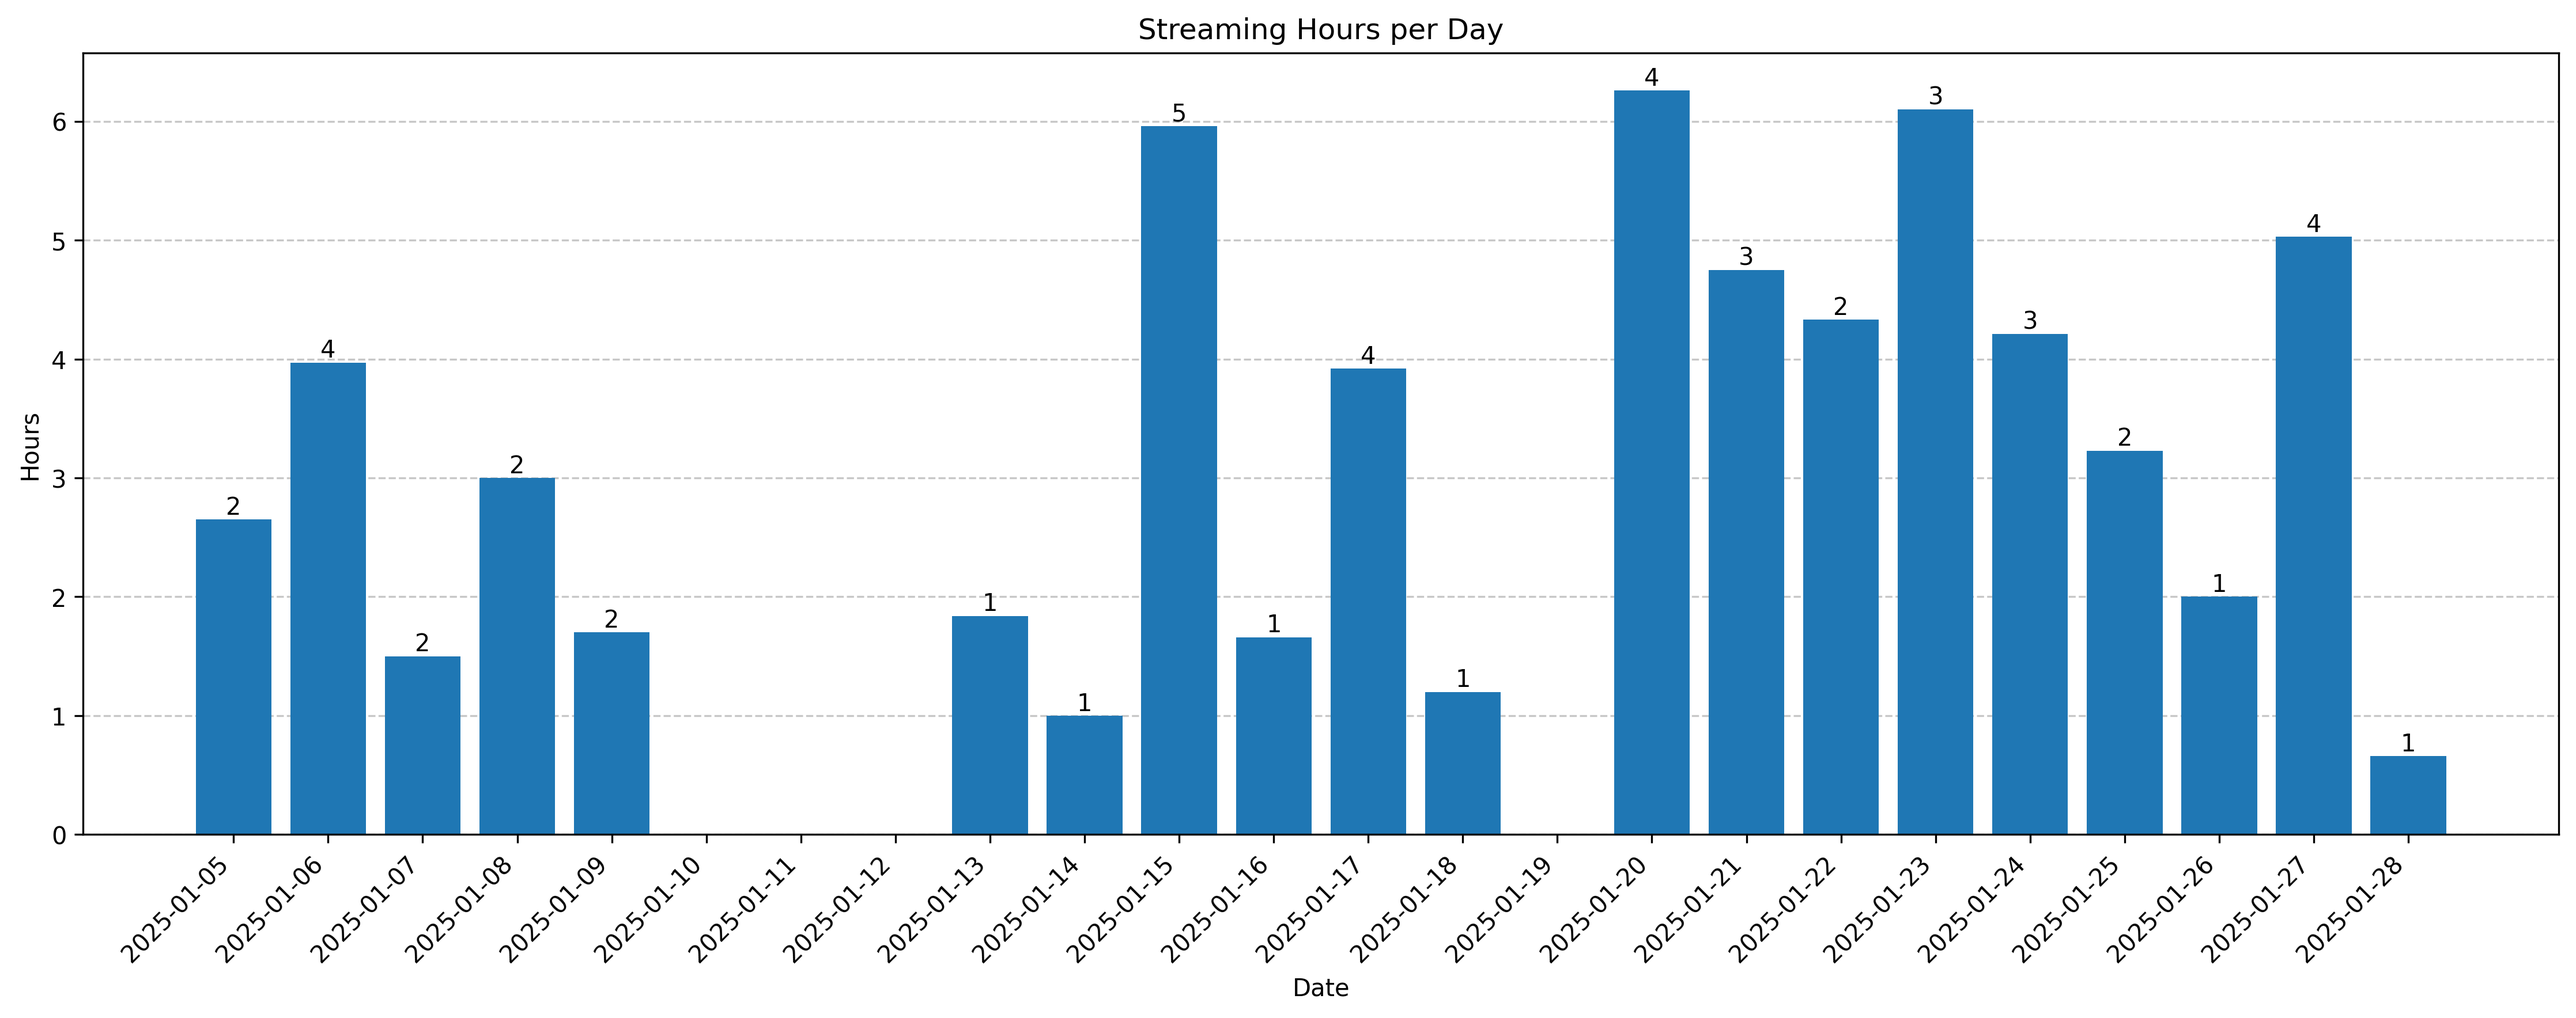
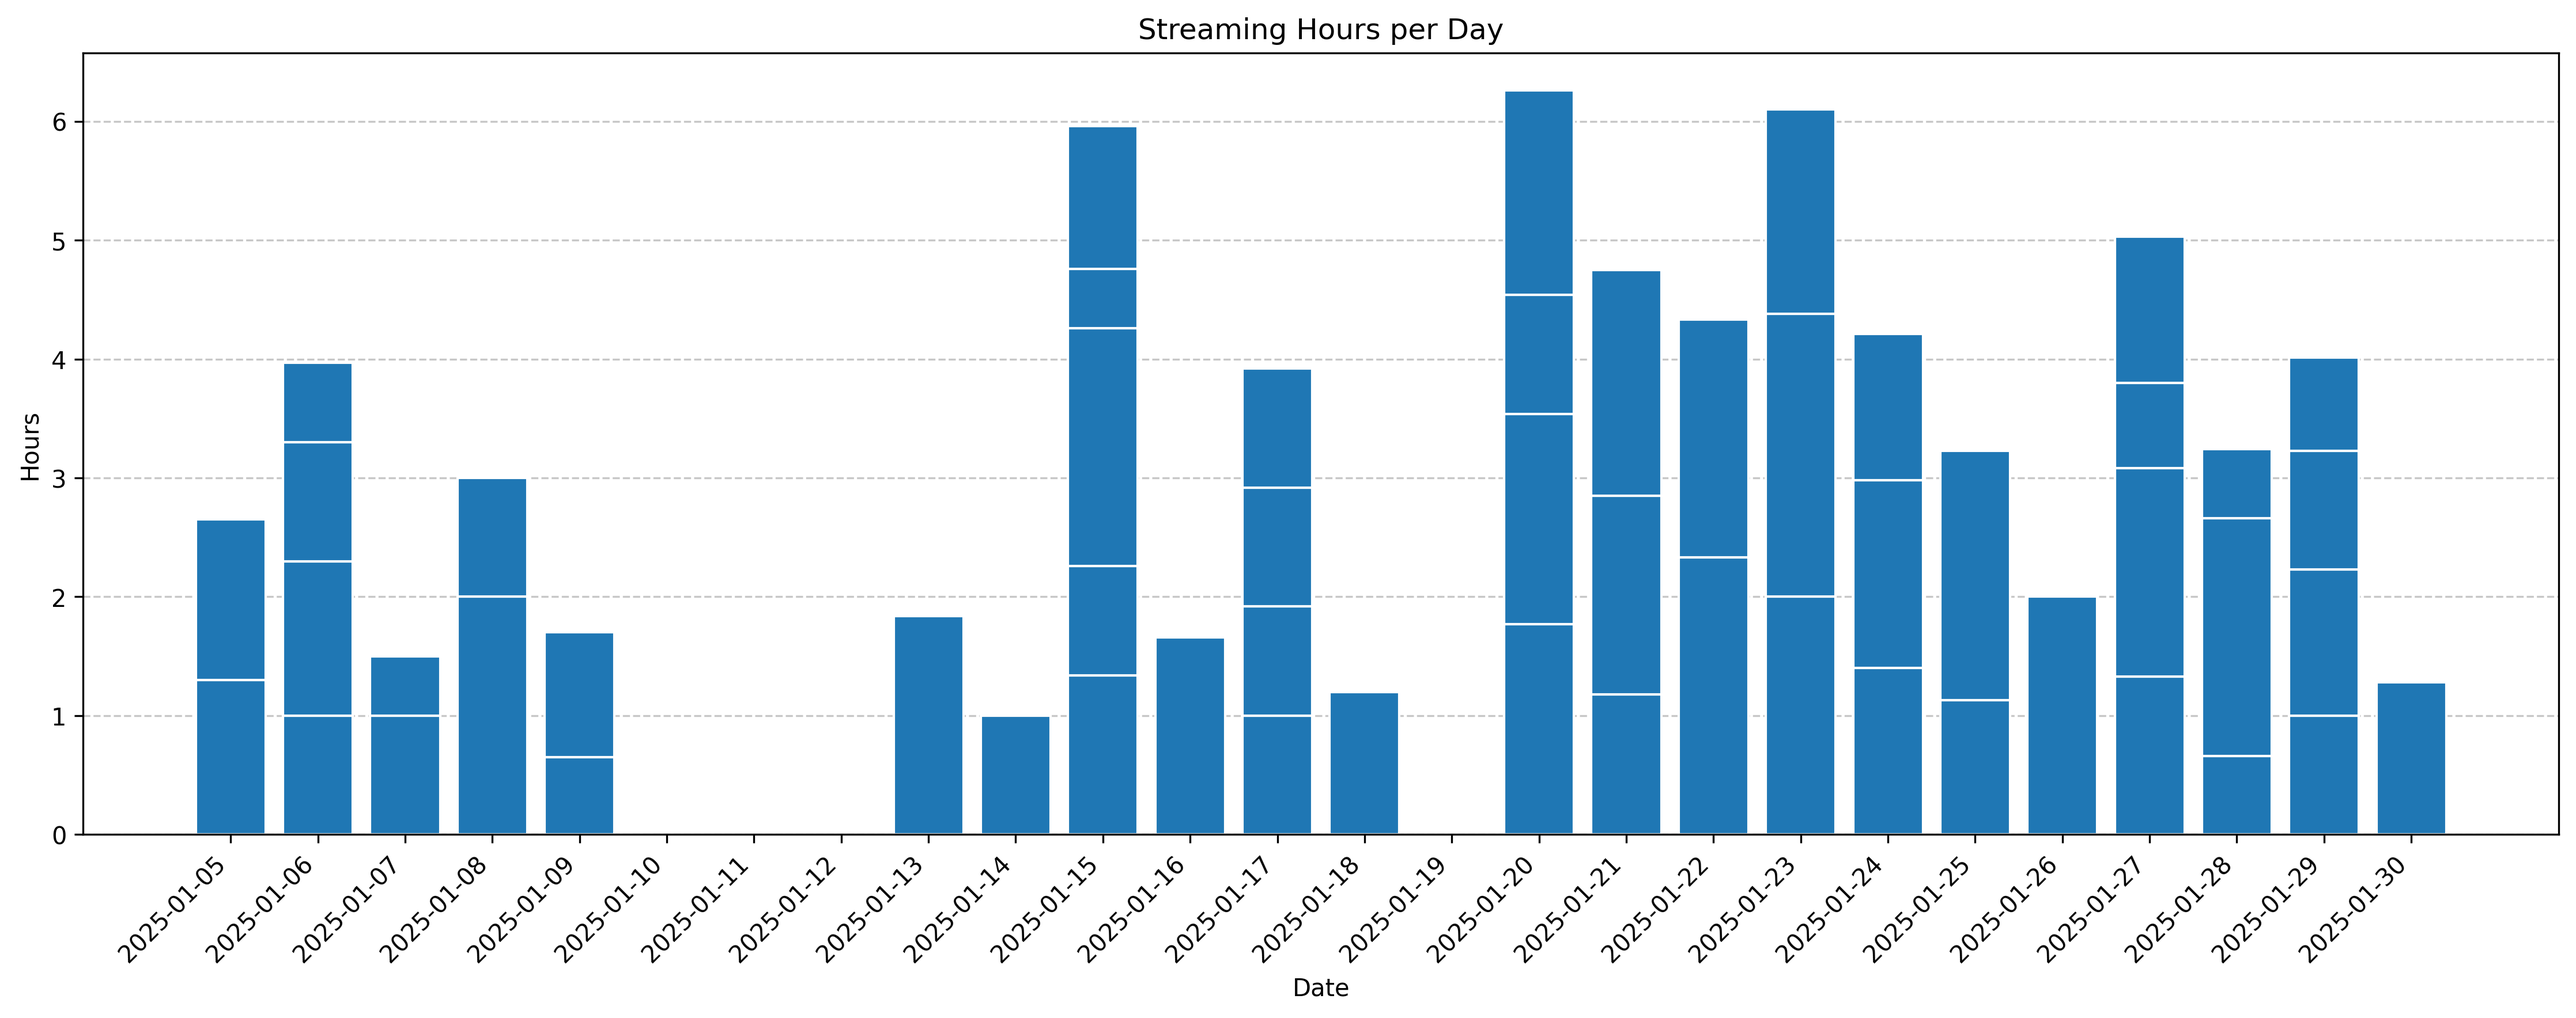
changed bar graphs

Changed region(s): [[0.0311, 0.0622, 0.964, 0.9333]]

diff --git a/analyze_commits.py b/analyze_commits.py
@@ -61,12 +61,12 @@ with open('streaming_sessions.csv', 'w', newline='') as f:
 
 # Create visualization
 date_hours = defaultdict(float)
-date_commits = defaultdict(int)
+date_sessions = defaultdict(list)  # Changed to store individual session hours
 
-for session in data:
+for session in reversed(data):  # Reverse the data to process oldest sessions first
     started_date = session['started_date']
     date_hours[started_date] += session['hours']
-    date_commits[started_date] += 1
+    date_sessions[started_date].append(session['hours'])  # Store individual session hours
 
 # Get first and last dates
 all_dates = sorted(date_hours.keys())
@@ -83,7 +83,7 @@ while current_date <= end_date:
 
 # Prepare data for visualization with all dates
 hours = [date_hours[date] for date in complete_dates]
-commits = [date_commits[date] for date in complete_dates]
+commits = [len(date_sessions[date]) for date in complete_dates]  # Fixed: use length of sessions list
 
 # Write daily summary to CSV
 with open('daily_summary.csv', 'w', newline='') as f:
@@ -112,8 +112,21 @@ print()
 
 # Create the bar chart
 plt.figure(figsize=(15, 6))
-bars = plt.bar(complete_dates, hours)
-plt.xticks(rotation=45, ha='right')
+
+# Create segmented bars
+bar_color = '#1f77b4'  # Default matplotlib blue
+edge_color = 'white'  # Changed to white for segment separation
+
+for i, date in enumerate(complete_dates):
+    sessions = date_sessions[date]
+    if sessions:  # If there were sessions on this day
+        bottom = 0
+        for session_hours in sessions:  # Sessions are now in chronological order
+            plt.bar(i, session_hours, bottom=bottom, color=bar_color, 
+                   edgecolor=edge_color, width=0.8)
+            bottom += session_hours
+
+plt.xticks(range(len(complete_dates)), complete_dates, rotation=45, ha='right')
 plt.title('Streaming Hours per Day')
 plt.xlabel('Date')
 plt.ylabel('Hours')
@@ -121,14 +134,6 @@ plt.ylabel('Hours')
 # Add horizontal grid lines
 plt.grid(axis='y', linestyle='--', alpha=0.7)
 plt.gca().set_axisbelow(True)  # Put grid behind bars
-
-# Add commit counts on top of bars (only for non-zero values)
-for bar, commit_count in zip(bars, commits):
-    height = bar.get_height()
-    if commit_count > 0:  # Only show numbers for days with commits
-        plt.text(bar.get_x() + bar.get_width()/2., height,
-                f'{commit_count}',
-                ha='center', va='bottom')
 
 # Adjust layout and save
 plt.tight_layout()
